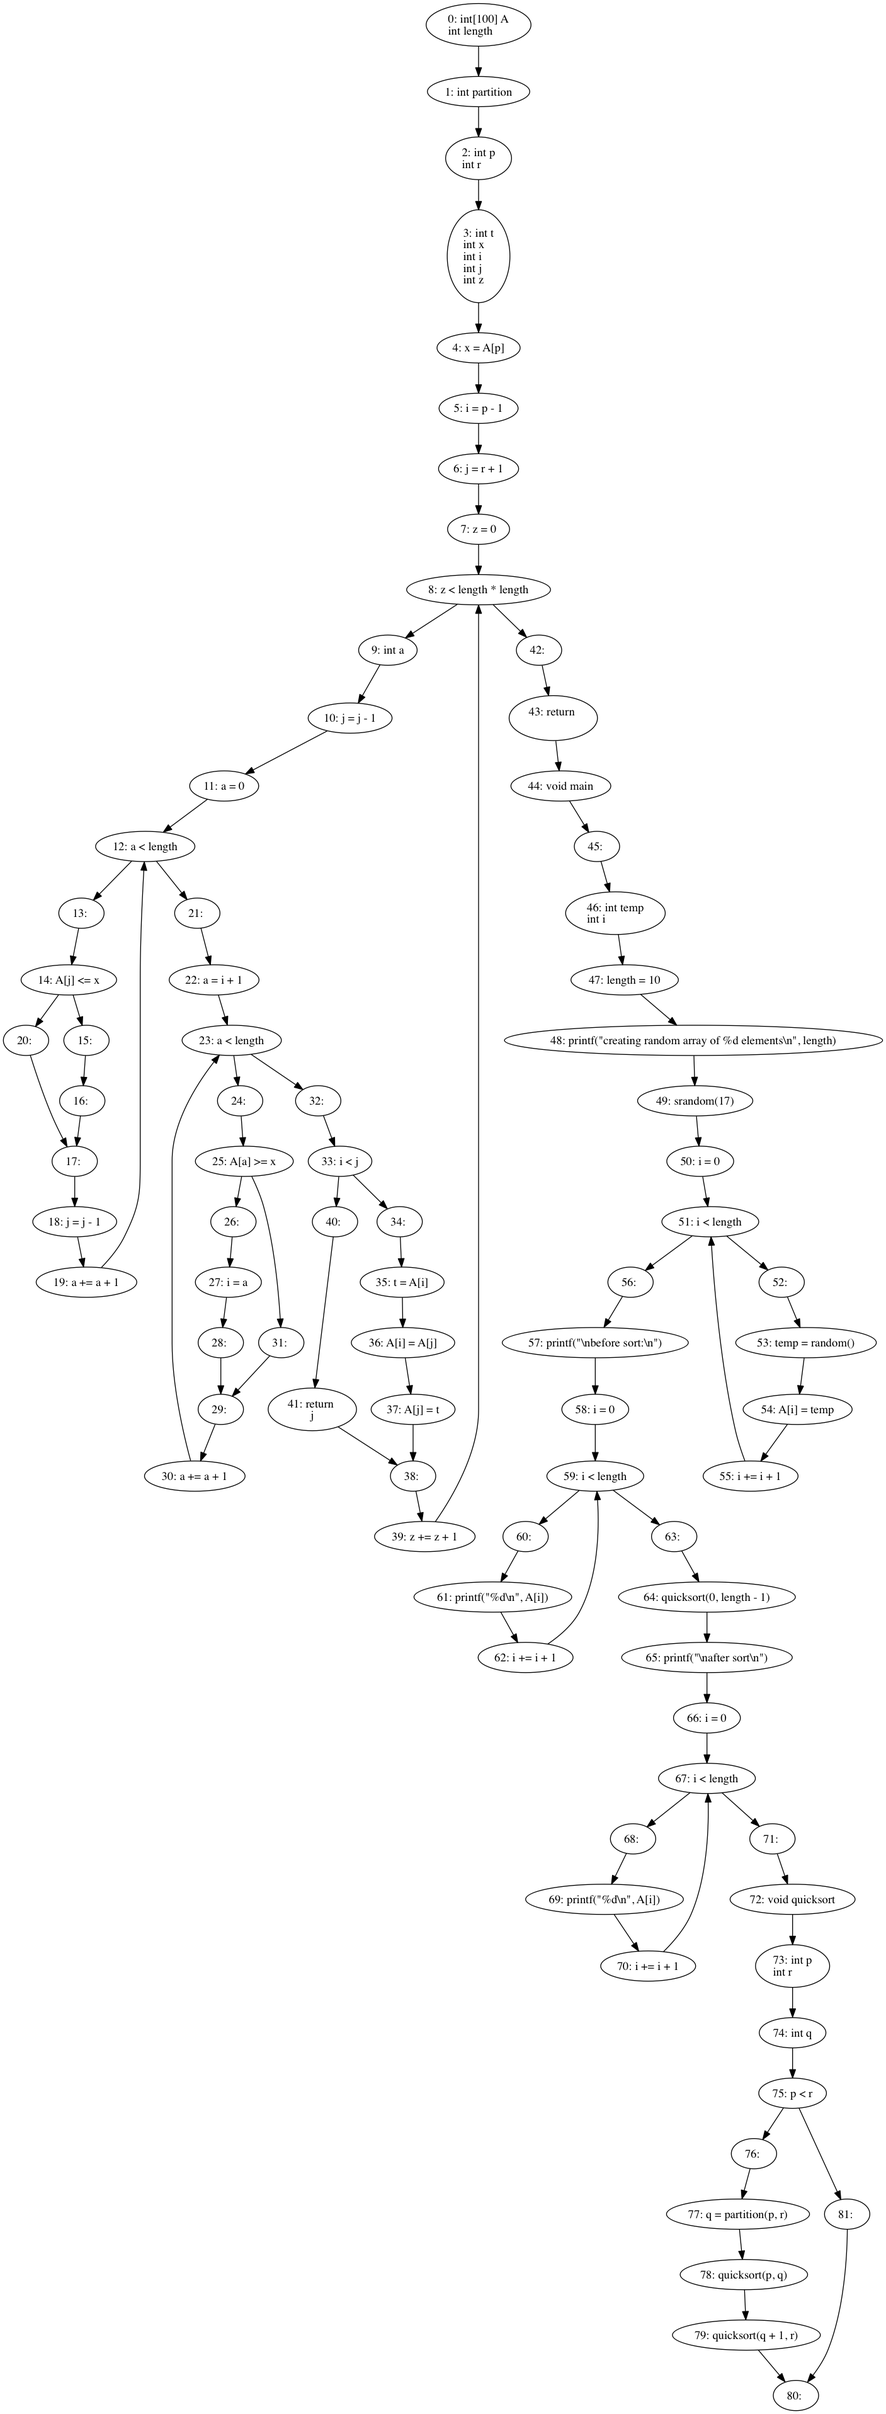
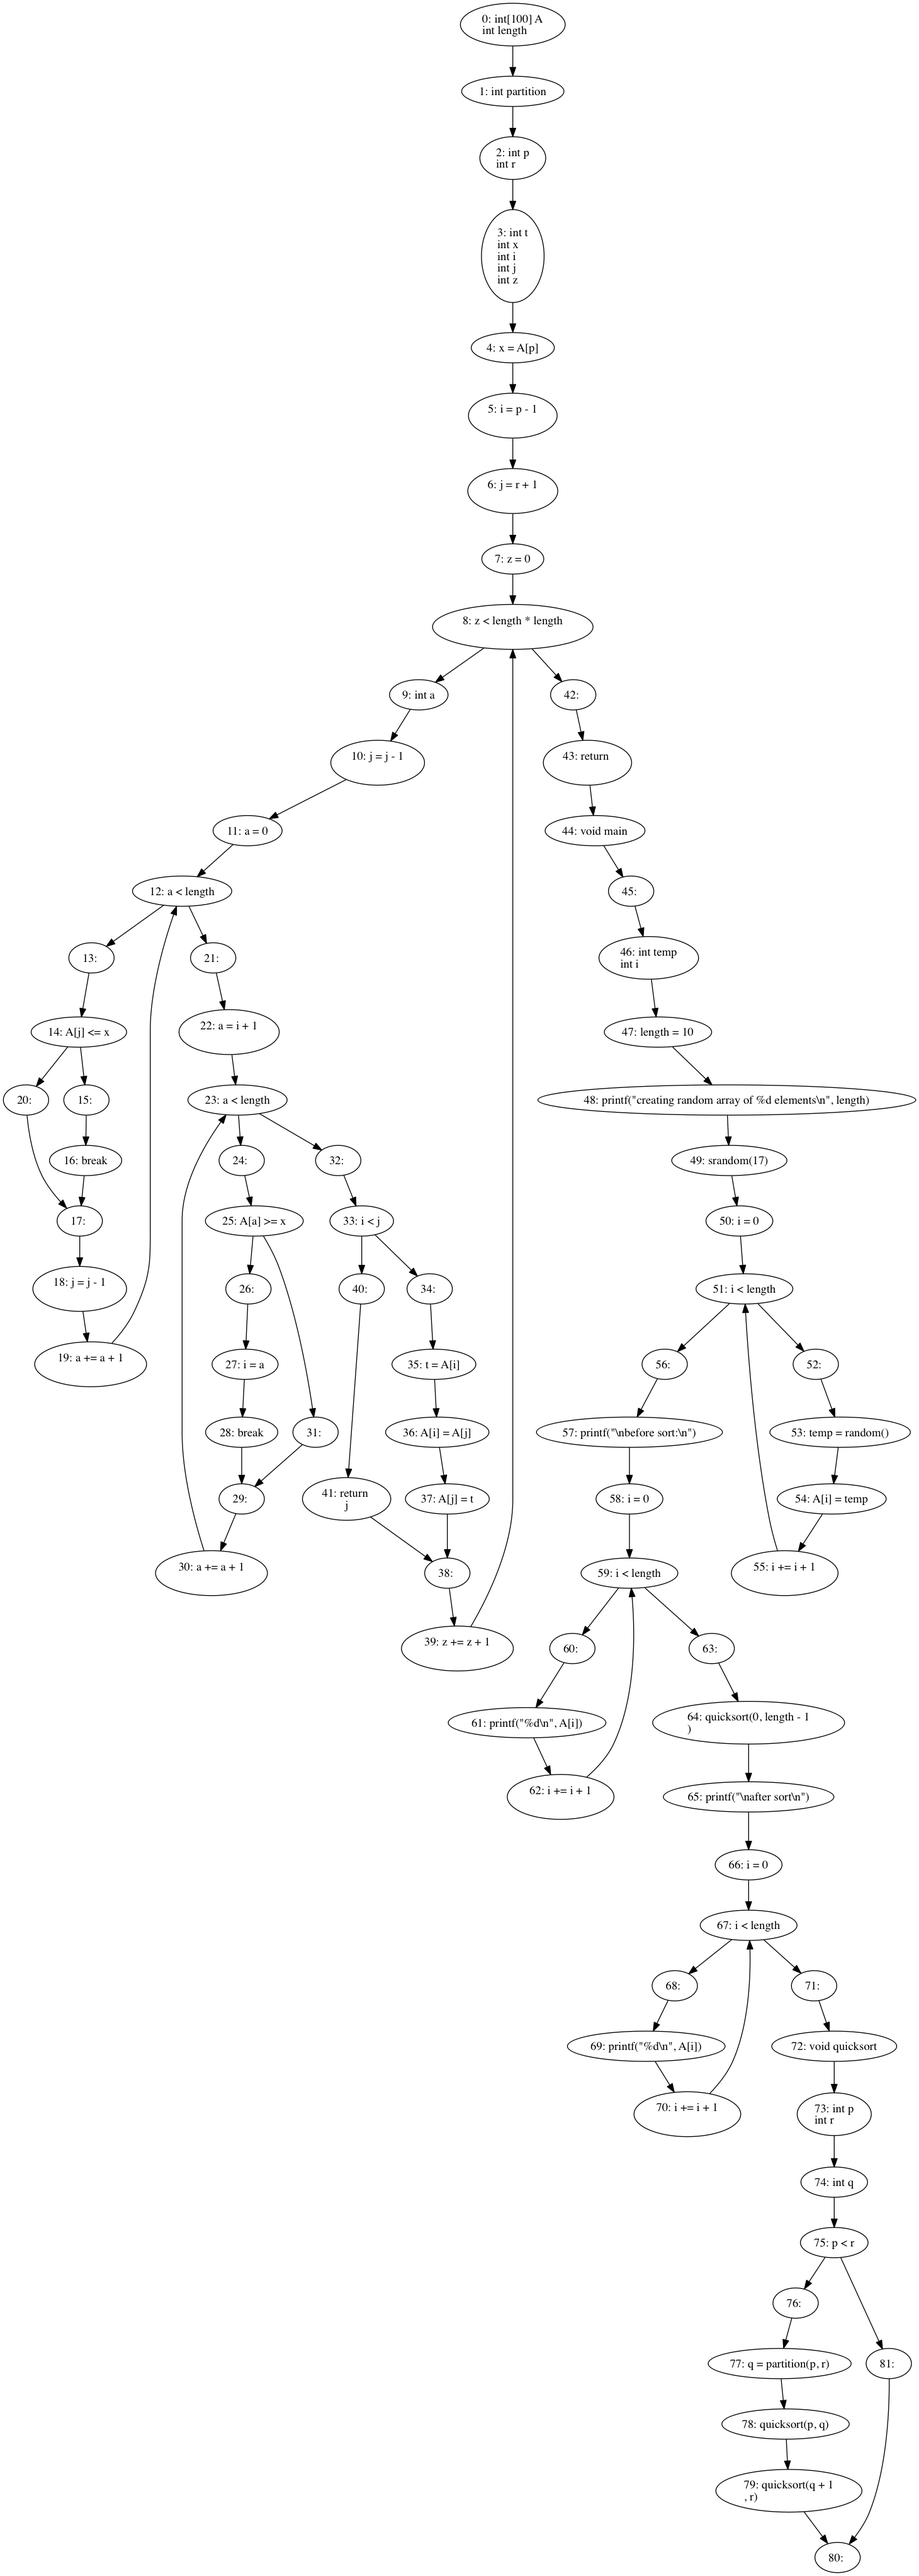
now break/continue are printed in basicblocks

diff --git a/src/edu/mit/compilers/highir/nodes/ContStmt.java b/src/edu/mit/compilers/highir/nodes/ContStmt.java
@@ -20,7 +20,7 @@ public class ContStmt extends Statement {
     
     @Override
     public CFG generateCFG(CFGContext context) {
-    	BasicBlock block = BasicBlock.createEmpty();
+    	BasicBlock block = BasicBlock.create(this);
     	BasicBlock loopEnter = context.currentLoopCFG().getEntryBlock();
     	block.setNextBlock(loopEnter);
     	loopEnter.addPreviousBlock(block);

diff --git a/src/edu/mit/compilers/highir/nodes/BreakStmt.java b/src/edu/mit/compilers/highir/nodes/BreakStmt.java
@@ -20,7 +20,7 @@ public class BreakStmt extends Statement {
     
     @Override
     public CFG generateCFG(CFGContext context) {
-    	BasicBlock block = BasicBlock.createEmpty();
+    	BasicBlock block = BasicBlock.create(this);
     	BasicBlock loopExit = context.currentLoopCFG().getExitBlock();
     	block.setNextBlock(loopExit);
     	loopExit.addPreviousBlock(block);
